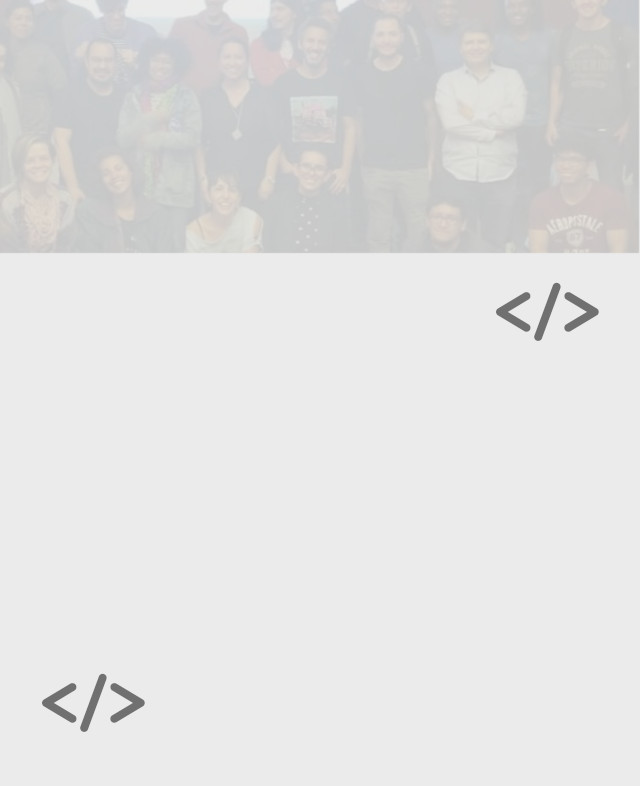
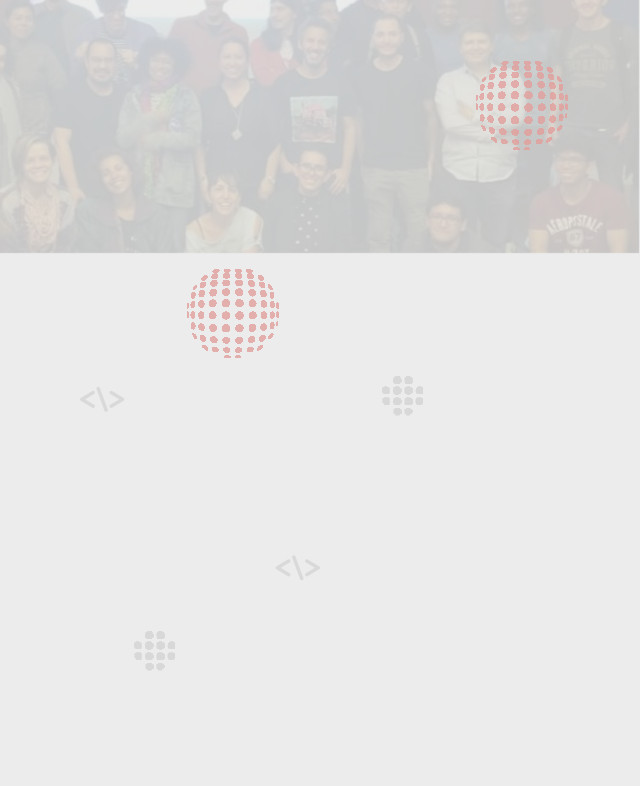
Desktop social media and menu navbar

diff --git a/style.css b/style.css
@@ -42,6 +42,9 @@
   font-style: italic;
 }
 
+.noneMobileToFlex {
+  display: none;
+}
 
 .textPaagraph {
   font-size: 13px;
@@ -142,9 +145,11 @@ p a:visited {
 }
 .homePage {
   background-image: url(assets/mobileBackground.jpg);
+  background-size: cover;
 }
 .aboutPage {
   background-image: url(assets/mobAboutBg.jpg);
+  background-size: cover;
 }
 #navLanding {
   height: auto;
@@ -261,4 +266,74 @@ footer {
   justify-content: space-around;
   align-items: center;
   border-top:#272a31 1px solid;
+}
+
+@media only screen and (min-width: 768px) {
+
+  .noneDesktop {
+    display: none;
+  }
+
+  nav {
+    height: auto;
+  }
+
+  .noneMobileToFlex {
+    display: flex;
+  }
+
+  .navMedia {
+    justify-content: flex-end;
+    column-gap: 15px;
+    align-items: center;
+    height:50px;
+    padding-right: 10%;
+  }
+
+  .navDeskMenu {
+    justify-content: space-between;
+    align-items: center;
+    height: 80px;
+    background-color: white;
+
+  }
+
+  .navDeskMenu li {
+    list-style: none;
+  }
+
+  .logo {
+    width: 75px;
+  }
+
+  .navDeskMenu ul {
+    column-gap: 50px;
+  }
+
+  li a:link,
+  li a:hover,
+  li a:active,
+  li a:visited {
+    color: inherit;
+    text-decoration: none;
+  }
+
+  #navLanding {
+    background-image: none;
+    height: 100vh;
+    padding-bottom: 0;
+  }
+
+  #landing {
+    height: calc(100% - 130px);
+    background-image: url(assets/deskHomeBg.jpg);
+    background-size: cover;
+
+  }
+
+  .paddingX5 {
+    padding-left: 10%;
+    padding-right: 10%;
+  }
+
 }

diff --git a/index.html b/index.html
@@ -12,8 +12,20 @@
 <body>
   <div id="navLanding" class="homePage">
     <nav>
-      <img id="hamburger" src="assets/mobileMenu.png" alt="">
-
+      <img class="noneDesktop"id="hamburger" src="assets/mobileMenu.png" alt="">
+      <div class="noneMobileToFlex bgDark navMedia">
+        <a href="https://angel.co" target="_blank"><img src="assets/angellist.svg" alt="angel list"></a>
+        <a href="https://twitter.com/ProcessingOrg" target="_blank"><img src="assets/twitter.svg" alt="twitter"></a>
+        <a href="https://processing.org/" target="_blank" class="textWhite fs12 decorNone">Processing Org</a>
+      </div>
+      <div class="noneMobileToFlex navDeskMenu paddingX5">
+        <a href="#" class="logo hAuto"><img class="w100"src="assets/logo.svg" alt=""></a>
+        <ul class="dFlex textDark fs14">
+          <li><a href="about.html">About</a></li>
+          <li><a href="#">Speakers</a></li>
+          <li><a href="#">Partners</a></li>
+        </ul>
+      </div>
     </nav>
     <section id="landing" class="paddingX5">
       <h1 class="orangeColor bigTitle fw800">Processing Community Day 2020</h1>

diff --git a/about.html b/about.html
@@ -12,7 +12,7 @@
   <body>
     <div id="navLanding" class="aboutPage">
       <nav>
-        <img id="hamburger" src="assets/mobileMenu.png" alt="">
+        <img class="noneDesktop" id="hamburger" src="assets/mobileMenu.png" alt="">
       </nav>
       <section id="landing" class="paddingX5">
         <h1 class="orangeColor bigTitle fw800 textAlignCenter">Processing Community Day 2020</h1>
